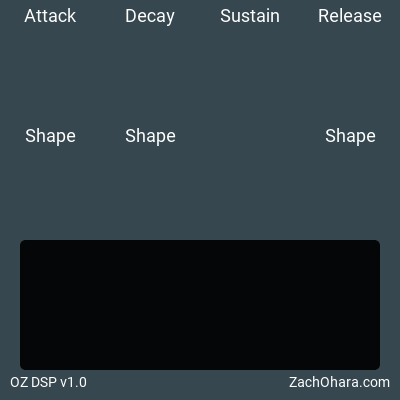
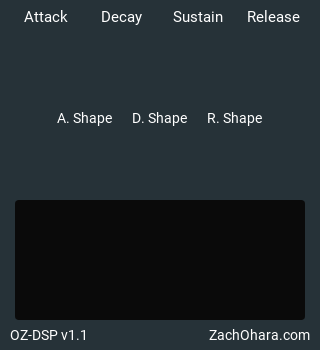
Redesign interface with the plugin builder

diff --git a/OZDSP_Envelope.cpp b/OZDSP_Envelope.cpp
@@ -4,47 +4,48 @@
 
 const int kNumPrograms = 0;
 
-enum EParameters
+enum EParams
 {
-	kAttackTimePid,
-	kDecayTimePid,
-	kSustainLevelPid,
-	kReleaseTimePid,
 	kAttackShapePid,
+	kAttackTimePid,
 	kDecayShapePid,
+	kDecayTimePid,
 	kReleaseShapePid,
+	kReleaseTimePid,
+	kSustainLevelPid,
 	kNumParams
 };
 
-std::vector<ParameterInfo> kParameterInfoList = {
+std::vector<ParameterInfo> kParameterList =
+{
 	ParameterInfo()
-		.InitParam("Attack", kAttackTimePid, KNOB_80_ID, 10, 30)
+		.InitParam("Attack Shape", kAttackShapePid, ATTACK_SHAPE_CONTROL_ID, 60, 130)
+		.InitLabel()
+		.MakeEnvelopeShapeParam(),
+	ParameterInfo()
+		.InitParam("Attack", kAttackTimePid, ATTACK_TIME_CONTROL_ID, 16, 30)
 		.InitLabel()
 		.MakeEnvelopeTimeParam(),
 	ParameterInfo()
-		.InitParam("Decay", kDecayTimePid, KNOB_80_ID, 110, 30)
+		.InitParam("Decay Shape", kDecayShapePid, DECAY_SHAPE_CONTROL_ID, 135, 130)
+		.InitLabel()
+		.MakeEnvelopeShapeParam(),
+	ParameterInfo()
+		.InitParam("Decay", kDecayTimePid, DECAY_TIME_CONTROL_ID, 92, 30)
 		.InitLabel()
 		.MakeEnvelopeTimeParam(),
 	ParameterInfo()
-		.InitParam("Sustain", kSustainLevelPid, KNOB_80_ID, 210, 30)
+		.InitParam("Release Shape", kReleaseShapePid, RELEASE_SHAPE_CONTROL_ID, 210, 130)
+		.InitLabel()
+		.MakeEnvelopeShapeParam(),
+	ParameterInfo()
+		.InitParam("Release", kReleaseTimePid, RELEASE_TIME_CONTROL_ID, 244, 30)
+		.InitLabel()
+		.MakeEnvelopeTimeParam(),
+	ParameterInfo()
+		.InitParam("Sustain", kSustainLevelPid, SUSTAIN_LEVEL_CONTROL_ID, 168, 30)
 		.InitLabel()
 		.MakePercentageParam(),
-	ParameterInfo()
-		.InitParam("Release", kReleaseTimePid, KNOB_80_ID, 310, 30)
-		.InitLabel()
-		.MakeEnvelopeTimeParam(),
-	ParameterInfo()
-		.InitParam("Attack Shape", kAttackShapePid, KNOB_80_ID, 10, 150)
-		.InitLabel()
-		.MakeEnvelopeShapeParam(),
-	ParameterInfo()
-		.InitParam("Decay Shape", kDecayShapePid, KNOB_80_ID, 110, 150)
-		.InitLabel()
-		.MakeEnvelopeShapeParam(),
-	ParameterInfo()
-		.InitParam("Release Shape", kReleaseShapePid, KNOB_80_ID, 310, 150)
-		.InitLabel()
-		.MakeEnvelopeShapeParam(),
 };
 
 OZDSP_Envelope::OZDSP_Envelope(IPlugInstanceInfo instanceInfo) :
@@ -53,29 +54,33 @@ OZDSP_Envelope::OZDSP_Envelope(IPlugInstanceInfo instanceInfo) :
 		COMMONPLUG_CTOR_PARAMS)
 {
 	SetBackground(BACKGROUND_ID, BACKGROUND_FN);
-	RegisterBitmap(KNOB_80_ID, KNOB_80_FN, KNOB_FRAMES);
 
-	AddParameterList(kParameterInfoList);
+	RegisterBitmap(ATTACK_SHAPE_CONTROL_ID, ATTACK_SHAPE_CONTROL_FN, ATTACK_SHAPE_CONTROL_FRAMES);
+	RegisterBitmap(ATTACK_TIME_CONTROL_ID, ATTACK_TIME_CONTROL_FN, ATTACK_TIME_CONTROL_FRAMES);
+	RegisterBitmap(DECAY_SHAPE_CONTROL_ID, DECAY_SHAPE_CONTROL_FN, DECAY_SHAPE_CONTROL_FRAMES);
+	RegisterBitmap(DECAY_TIME_CONTROL_ID, DECAY_TIME_CONTROL_FN, DECAY_TIME_CONTROL_FRAMES);
+	RegisterBitmap(RELEASE_SHAPE_CONTROL_ID, RELEASE_SHAPE_CONTROL_FN, RELEASE_SHAPE_CONTROL_FRAMES);
+	RegisterBitmap(RELEASE_TIME_CONTROL_ID, RELEASE_TIME_CONTROL_FN, RELEASE_TIME_CONTROL_FRAMES);
+	RegisterBitmap(SUSTAIN_LEVEL_CONTROL_ID, SUSTAIN_LEVEL_CONTROL_FN, SUSTAIN_LEVEL_CONTROL_FRAMES);
 
-	RegisterProcessorList({
-		&mOscillator,
-		&mEnvelopeProcessor,
-		&mTuningProcessor
-	});
+	AddParameterList(kParameterList);
 
-	mEnvelopeProcessor.RegisterParameterList({
-		{ kAttackTimePid, EnvelopeProcessor::kAttackTimeParam },
-		{ kDecayTimePid, EnvelopeProcessor::kDecayTimeParam },
-		{ kSustainLevelPid, EnvelopeProcessor::kSustainLevelParam },
-		{ kReleaseTimePid, EnvelopeProcessor::kReleaseTimeParam },
-		{ kAttackShapePid, EnvelopeProcessor::kAttackShapeParam },
-		{ kDecayShapePid, EnvelopeProcessor::kDecayShapeParam },
-		{ kReleaseShapePid, EnvelopeProcessor::kReleaseShapeParam }
-	});
+	RegisterProcessor(&mEnvelopeProcessor);
+	mEnvelopeProcessor.RegisterParameter(kAttackShapePid, EnvelopeProcessor::kAttackShapeParam);
+	mEnvelopeProcessor.RegisterParameter(kAttackTimePid, EnvelopeProcessor::kAttackTimeParam);
+	mEnvelopeProcessor.RegisterParameter(kDecayShapePid, EnvelopeProcessor::kDecayShapeParam);
+	mEnvelopeProcessor.RegisterParameter(kDecayTimePid, EnvelopeProcessor::kDecayTimeParam);
+	mEnvelopeProcessor.RegisterParameter(kReleaseShapePid, EnvelopeProcessor::kReleaseShapeParam);
+	mEnvelopeProcessor.RegisterParameter(kReleaseTimePid, EnvelopeProcessor::kReleaseTimeParam);
+	mEnvelopeProcessor.RegisterParameter(kSustainLevelPid, EnvelopeProcessor::kSustainLevelParam);
+
+	RegisterProcessor(&mOscillator);
+
+	RegisterProcessor(&mTuningProcessor);
 
 	mOscillator.SetWaveform(Oscillator::kTriangleWave);
 
-	EnvelopeShapeGraphic* envelopeShape = new EnvelopeShapeGraphic(this, &mEnvelopeProcessor, IRECT(20, 240, 380, 370));
+	EnvelopeShapeGraphic* envelopeShape = new EnvelopeShapeGraphic(this, &mEnvelopeProcessor, IRECT(15, 200, 305, 320));
 	GetGraphics()->AttachControl(envelopeShape);
 
 	FinishConstruction();

diff --git a/resource.h b/resource.h
@@ -57,20 +57,35 @@ instrument determined by PLUG _IS _INST
 
 #define PLUG_DOES_STATE_CHUNKS 0
 
-// Unique IDs for each image resource.
+// GUI dimensions
+#define GUI_WIDTH 320
+#define GUI_HEIGHT 350
+// Unique IDs for each image resource
 #define BACKGROUND_ID 101
-#define KNOB_80_ID 201
-
-// Image resource locations for this plug.
+#define ATTACK_SHAPE_CONTROL_ID 201
+#define ATTACK_TIME_CONTROL_ID 202
+#define DECAY_SHAPE_CONTROL_ID 203
+#define DECAY_TIME_CONTROL_ID 204
+#define RELEASE_SHAPE_CONTROL_ID 205
+#define RELEASE_TIME_CONTROL_ID 206
+#define SUSTAIN_LEVEL_CONTROL_ID 207
+// Image resource locations for this plug
 #define BACKGROUND_FN "resources/img/Envelope.png"
-#define KNOB_80_FN "resources/img/knob_green80.png"
-
+#define ATTACK_SHAPE_CONTROL_FN "resources/img/attack_shape.png"
+#define ATTACK_TIME_CONTROL_FN "resources/img/attack_time.png"
+#define DECAY_SHAPE_CONTROL_FN "resources/img/decay_shape.png"
+#define DECAY_TIME_CONTROL_FN "resources/img/decay_time.png"
+#define RELEASE_SHAPE_CONTROL_FN "resources/img/release_shape.png"
+#define RELEASE_TIME_CONTROL_FN "resources/img/release_time.png"
+#define SUSTAIN_LEVEL_CONTROL_FN "resources/img/sustain_level.png"
 // Number of frames in the bitmaps
-#define KNOB_FRAMES 128
-
-// GUI default dimensions
-#define GUI_WIDTH 400
-#define GUI_HEIGHT 400
+#define ATTACK_SHAPE_CONTROL_FRAMES 128
+#define ATTACK_TIME_CONTROL_FRAMES 128
+#define DECAY_SHAPE_CONTROL_FRAMES 128
+#define DECAY_TIME_CONTROL_FRAMES 128
+#define RELEASE_SHAPE_CONTROL_FRAMES 128
+#define RELEASE_TIME_CONTROL_FRAMES 128
+#define SUSTAIN_LEVEL_CONTROL_FRAMES 128
 
 // on MSVC, you must define SA_API in the resource editor preprocessor macros as well as the c++ ones
 #if defined(SA_API)

diff --git a/OZDSP_Envelope.h b/OZDSP_Envelope.h
@@ -25,8 +25,8 @@ public:
 	void ProcessDoubleReplacing(double** inputs, double** outputs, int nFrames) override;
 
 private:
-	Oscillator mOscillator;
 	EnvelopeProcessor mEnvelopeProcessor;
+	Oscillator mOscillator;
 	TuningProcessor mTuningProcessor;
 
 	MidiStackReciever mMidiReciver;
